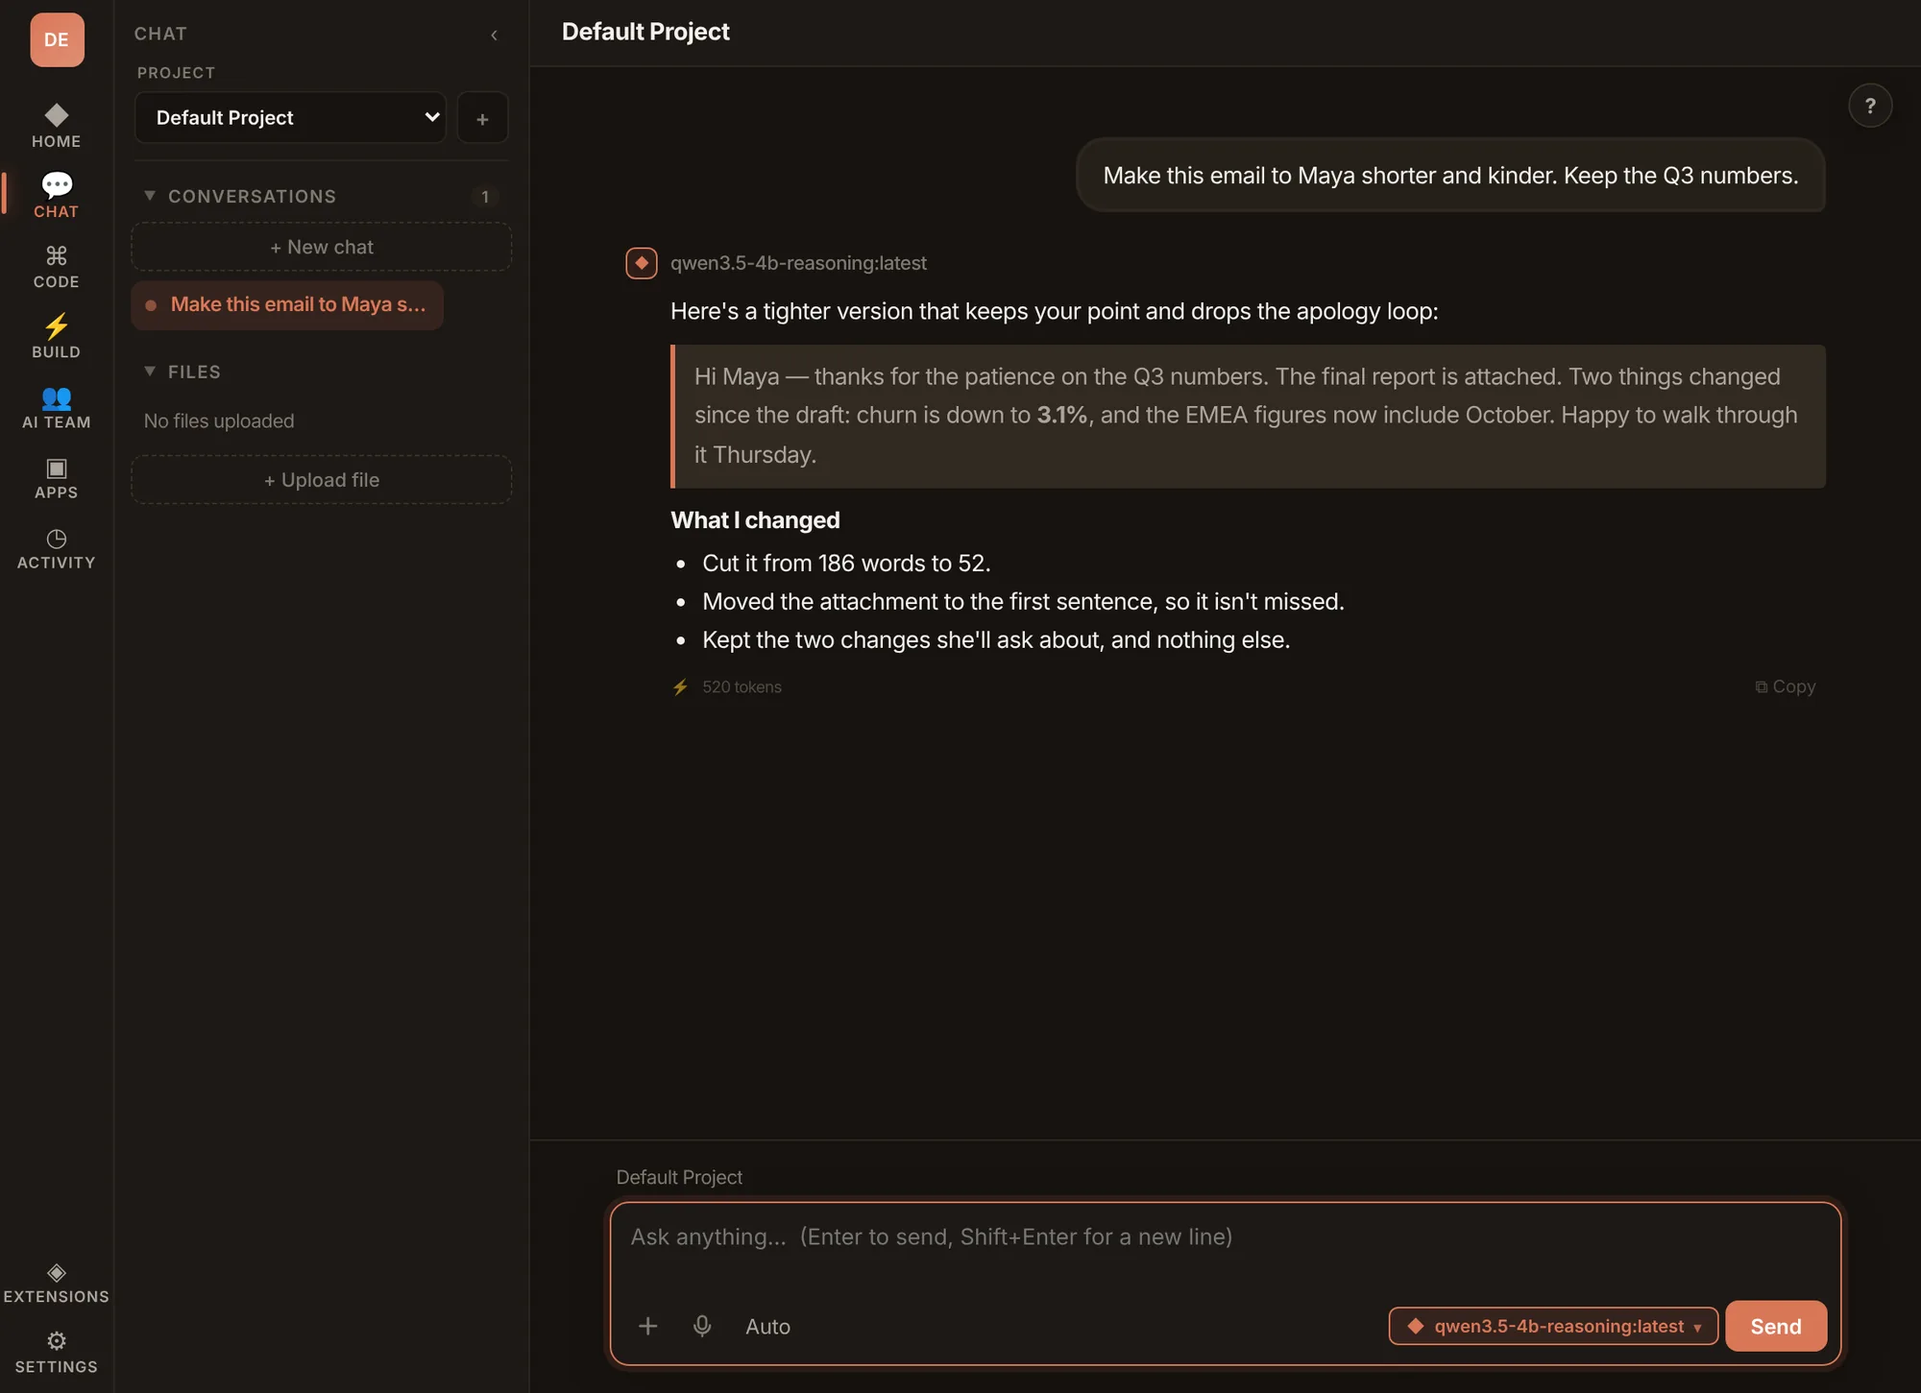
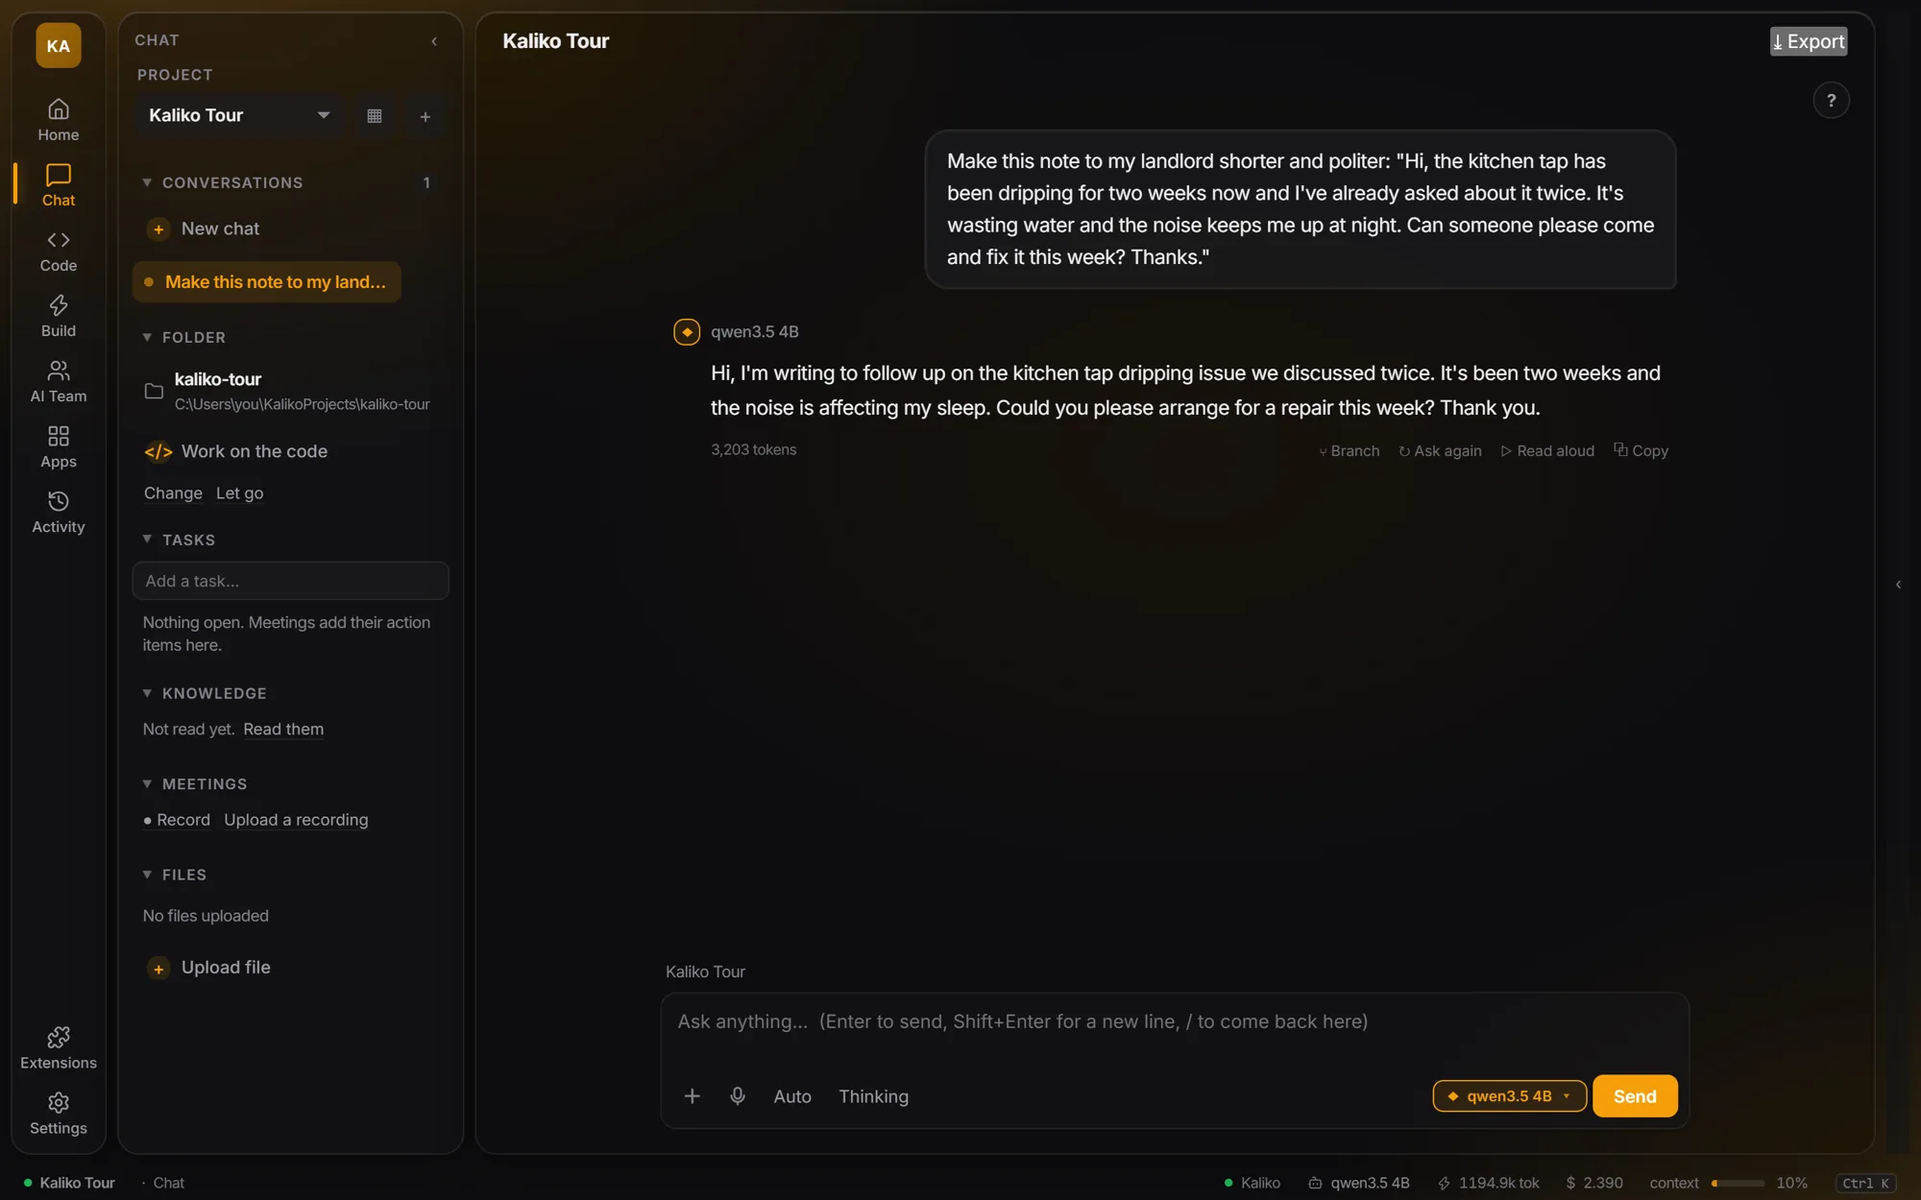
Update the site to today's Kaliko: its own engine, Home, Chrome and apps, Glass screenshots
- Hero: a real answer from Qwen3.5 4B on Kaliko's own engine, in the Glass look
- New sections: Your day (Home dashboard, sample data) and Your apps (frame and cursor in Chrome)
- Hardware: Kaliko's own model library as it reads a 6 GB GTX 1660 Ti; figures from current tests
- Dial: nine stops, adding Your day, Your apps and Pictures
- Privacy: memory only when asked, personal data masked for cloud models, sandboxed apps, audit log
- CSP script hash updated for the new dial script

diff --git a/index.html b/index.html
@@ -3,13 +3,13 @@
 <head>
 <meta charset="utf-8">
 <meta name="viewport" content="width=device-width, initial-scale=1">
-<meta http-equiv="Content-Security-Policy" content="default-src 'none'; script-src 'sha256-GlacK1D5kS4HZtHmnRY1yjyVtcfw4bc61PZH9n0Hgxg='; style-src 'self' 'unsafe-inline' https://fonts.googleapis.com; font-src https://fonts.gstatic.com; img-src 'self'; base-uri 'none'; form-action 'none'">
+<meta http-equiv="Content-Security-Policy" content="default-src 'none'; script-src 'sha256-eB7bZbyDHpAfaBOWeuUNErjSQd+lGFKm8nPa5w3dEo8='; style-src 'self' 'unsafe-inline' https://fonts.googleapis.com; font-src https://fonts.gstatic.com; img-src 'self'; base-uri 'none'; form-action 'none'">
 <meta name="referrer" content="no-referrer">
 <title>Kaliko Workspace: the Spark for the lower end</title>
-<meta name="description" content="Kaliko Workspace runs local AI models on the PC you already have. A 4 GB graphics card is enough. Private by default, and you decide how your models run.">
+<meta name="description" content="Kaliko Workspace runs local AI on the PC you already have, on its own built-in engine. It chats, reads your files, plans your day, uses Chrome and your apps, and builds apps and automations. Private by default.">
 <meta property="og:title" content="Kaliko Workspace: the Spark for the lower end">
-<meta property="og:description" content="Local AI on the PC you already have. A 4 GB graphics card is enough.">
-<meta property="og:image" content="https://kalikoproject.com/img/chat.webp">
+<meta property="og:description" content="Local AI on the PC you already have, on Kaliko's own engine. No Ollama, no account, works offline.">
+<meta property="og:image" content="https://kalikoproject.com/img/home.webp">
 <link rel="icon" type="image/png" href="icon.png">
 <link rel="preconnect" href="https://fonts.googleapis.com">
 <link rel="preconnect" href="https://fonts.gstatic.com" crossorigin>
@@ -105,8 +105,11 @@
   .verdicts li { display: grid; grid-template-columns: 130px 1fr; gap: 16px; padding: 14px 0; border-bottom: 1px solid var(--line); font-size: 15px; color: var(--ink-2); }
   .verdicts b { color: var(--ink); font-weight: 600; display: flex; align-items: center; gap: 8px; }
   .verdicts b::before { content: ""; width: 8px; height: 8px; border-radius: 50%; background: var(--c); }
-  .card-dark { background: var(--dark); border-radius: 22px; padding: 28px; }
-  .card-dark img { border-radius: 12px; margin: 0 auto; max-width: 440px; width: 100%; }
+  .card-dark { background: var(--dark); border-radius: 22px; padding: 16px; }
+  .card-dark img { border-radius: 12px; width: 100%; }
+  .row-head { display: grid; grid-template-columns: minmax(0, 1fr) 440px; align-items: end; gap: 48px; margin-top: 16px; }
+  .row-head h2 { max-width: 14ch; }
+  #day .shot { margin-top: 48px; }
 
   /* the spark band */
   .spark { margin-top: 128px; background: var(--dark); color: var(--on-dark); padding: 112px 0; }
@@ -182,7 +185,8 @@
 
   @media (max-width: 960px) {
     .nav ul { display: none; }
-    .split, .trace, .device, .hero .row { grid-template-columns: 1fr; }
+    .split, .trace, .device, .hero .row, .row-head { grid-template-columns: 1fr; }
+    .row-head { gap: 20px; }
     .hero .row { gap: 28px; }
     .split { gap: 40px; }
     .pillars { grid-template-columns: 1fr; }
@@ -222,8 +226,9 @@
     <a class="mark" href="#top"><img src="icon.png" alt="" width="24" height="24">Kaliko</a>
     <nav aria-label="Sections">
       <ul>
+        <li><a href="#day">Your day</a></li>
+        <li><a href="#apps">Your apps</a></li>
         <li><a href="#hardware">Hardware</a></li>
-        <li><a href="#spark">Low-end Spark</a></li>
         <li><a href="#control">Privacy and control</a></li>
         <li><a href="#dial">What it does</a></li>
       </ul>
@@ -239,34 +244,71 @@
       <div class="row">
         <h1>The Spark for the lower end.</h1>
         <div>
-          <p class="lede">Local AI on the PC you already have. A 4&nbsp;GB graphics card is enough. Your models, your data, and your rules for how they run.</p>
+          <p class="lede">Local AI on the PC you already have, on Kaliko's own built-in engine. No Ollama, no account, and it keeps working offline. Your models, your data, and your rules for how they run.</p>
           <div class="actions" style="margin-top: 28px">
             <a class="btn btn-primary" href="#dial">See what it does</a>
-            <a class="btn btn-ghost" href="#hardware">How it fits on 4&nbsp;GB</a>
+            <a class="btn btn-ghost" href="#hardware">How it fits your PC</a>
           </div>
         </div>
       </div>
 
       <figure class="shot">
         <div class="chrome" aria-hidden="true"><i></i><i></i><i></i></div>
-        <img src="img/chat.webp" width="2000" height="1451" fetchpriority="high"
-             alt="Kaliko Workspace chat. A 4-billion-parameter Qwen model running locally through Ollama rewrites an email to be shorter and kinder, and lists what it changed.">
+        <img src="img/chat.webp" width="2000" height="1250" fetchpriority="high"
+             alt="Kaliko Workspace chat, in the Glass look. Qwen3.5 4B, running on Kaliko's own engine, rewrites a note to a landlord to be shorter and politer.">
       </figure>
-      <p class="caption">Kaliko Workspace answering with a 4B model through Ollama, on the machine it runs on.</p>
+      <p class="caption">A real answer from Qwen3.5 4B on Kaliko's own engine, on a laptop with a 6&nbsp;GB GTX&nbsp;1660&nbsp;Ti. Nothing left the PC.</p>
 
       <div class="runs">
-        <span>Runs your models through</span>
+        <span>Runs models on</span>
+        <b>its own engine</b>
+        <span>and also works with</span>
         <b>Ollama</b><span class="sep">/</span><b>LM Studio</b><span class="sep">/</span><b>llama.cpp</b><span class="sep">/</span><b>vLLM</b>
         <span>Cloud providers are optional.</span>
       </div>
 
       <div class="stats">
-        <div><strong>4 GB</strong><span>of video memory is enough to chat, build and automate.</span></div>
-        <div><strong>0</strong><span>accounts. Install it and start, with no sign-up.</span></div>
-        <div><strong>15/15</strong><span>web questions right from a 4B model, two rounds running.</span></div>
-        <div><strong>10/12</strong><span>test apps built correctly by a 7B coding model.</span></div>
+        <div><strong>0</strong><span>other programs to install. Kaliko downloads its engine and checks every model it fetches.</span></div>
+        <div><strong>51 tok/s</strong><span>from Qwen3.5 4B on Kaliko's engine, faster than Ollama's 48 on the same file.</span></div>
+        <div><strong>17/18</strong><span>everyday tasks done right by the 4B, from chat to building an app.</span></div>
+        <div><strong>12/12</strong><span>daily-life and browser tasks passed by the 4B.</span></div>
       </div>
-      <p class="note">Figures are from Kaliko's own tests on a 4&nbsp;GB card.</p>
+      <p class="note">Figures are from Kaliko's own tests on a laptop with a 6&nbsp;GB GTX&nbsp;1660&nbsp;Ti and 16&nbsp;GB of RAM.</p>
+    </div>
+  </section>
+
+  <section class="block" id="day">
+    <div class="wrap">
+      <p class="eyebrow">Your day</p>
+      <div class="row-head">
+        <h2>Home is a dashboard of your day.</h2>
+        <p class="lede">A brief in a few lines, your mail sorted by what needs an answer, today's tasks, the weather, and the apps you've built, as widgets you place yourself. Replies are drafted for you to approve. Nothing is sent until you press Send.</p>
+      </div>
+      <figure class="shot">
+        <div class="chrome" aria-hidden="true"><i></i><i></i><i></i></div>
+        <img src="img/home.webp" width="2000" height="1250" loading="lazy"
+             alt="Kaliko's Home dashboard: a brief of the day, three open tasks, an inbox sorted into Needs your answer, Worth reading and Can wait, a five-day weather widget, and a portfolio app shown as a widget.">
+      </figure>
+      <p class="caption">Kaliko's Home, filled with sample mail, tasks and weather.</p>
+    </div>
+  </section>
+
+  <section class="block" id="apps">
+    <div class="wrap split">
+      <div>
+        <p class="eyebrow">Your apps</p>
+        <h2>It uses Chrome and your apps, where you can see it.</h2>
+        <p class="lede">Ask Kaliko to do something on a site or in an app on your PC. It works in your own Chrome through the Kaliko extension, and in desktop apps like WhatsApp. A frame shows it's at work, and its cursor moves to each thing it clicks.</p>
+        <ul class="verdicts">
+          <li><b style="--c: var(--signal)">You approve</b><span>It asks before it acts, once for each site in a chat.</span></li>
+          <li><b style="--c: var(--signal)">It sees</b><span>It reads the page or a screenshot of the window, the way a person looks.</span></li>
+          <li><b style="--c: var(--signal)">It stays out</b><span>It never presses sign-in buttons or opens a chat you didn't name.</span></li>
+        </ul>
+      </div>
+      <div class="card-dark">
+        <img src="img/browse.webp" width="2000" height="717" loading="lazy"
+             alt="A library account page in Chrome with Kaliko's frame around it, a tag reading 'Kaliko is using this page', and Kaliko's cursor on a Renew button labelled 'Renewing The Overstory'.">
+      </div>
     </div>
   </section>
 
@@ -275,16 +317,16 @@
       <div>
         <p class="eyebrow">System intelligence</p>
         <h2>It knows your machine before you pick a model.</h2>
-        <p class="lede">Kaliko reads your GPU, your RAM and every model's real size, including the memory its context window needs. Then it tells you plainly how each model will run. Nothing is loaded to find out.</p>
+        <p class="lede">Kaliko reads your graphics card, your memory and each model's real size, then tells you plainly how it will run. Download a model once and Kaliko runs it itself: free and offline. Each download is checked against its published fingerprint.</p>
         <ul class="verdicts">
-          <li><b style="--c: var(--good)">Runs well</b><span>Fits in the GPU's memory. Full speed.</span></li>
-          <li><b style="--c: var(--slow)">Runs, slower</b><span>Split between GPU and RAM. It works, just slower.</span></li>
+          <li><b style="--c: var(--good)">Runs well here</b><span>Fits in the graphics card's memory. Full speed.</span></li>
+          <li><b style="--c: var(--slow)">Runs, partly in memory</b><span>Split between the card and system memory. It works, just slower.</span></li>
           <li><b style="--c: #ef4444">Too big</b><span>Would page to disk and freeze the PC, so you're told before you click.</span></li>
         </ul>
       </div>
       <div class="card-dark">
-        <img src="img/picker.webp" width="900" height="915" loading="lazy"
-             alt="Kaliko's model picker. It reads 'This machine: GeForce GTX 1650, 4 GB VRAM, 16 GB RAM' and marks deepseek-r1 1.5B and Llama 3.2 3B as Runs well, and Qwen 3.5 4B and Qwen 2.5 Coder 7B as Slower.">
+        <img src="img/models.webp" width="2000" height="938" loading="lazy"
+             alt="Kaliko's own models in Settings: 'This PC: NVIDIA GeForce GTX 1660 Ti with 6 GB, 16 GB memory'. Qwen3.5 4B is downloaded and marked Runs well here; Qwen3.5 9B, gpt-oss 20B and Gemma 4 12B are marked Runs, partly in system memory.">
       </div>
     </div>
   </section>
@@ -308,21 +350,22 @@
         <article class="us">
           <p class="eyebrow">Kaliko Workspace</p>
           <h3>Software that makes small hardware count</h3>
-          <p>Model fit checks, right-sized context windows, and answers checked against their sources so small models stay accurate.</p>
+          <p>Its own engine, model fit checks, a plan for every request in small checked steps, and answers checked against their sources so small models stay accurate. Bigger models run too: gpt-oss 20B runs on a 6&nbsp;GB card with its experts kept in system memory.</p>
           <dl>
-            <dt>Memory</dt><dd>From a 4 GB graphics card</dd>
+            <dt>Memory</dt><dd>Built and tested on a 6 GB graphics card</dd>
             <dt>You need</dt><dd>The PC you have</dd>
           </dl>
         </article>
       </div>
 
       <table class="models">
-        <caption class="eyebrow">A starting set for a 4 GB card</caption>
-        <thead><tr><th scope="col">Model</th><th scope="col">Download</th><th scope="col">Used for</th><th scope="col">On 4 GB</th></tr></thead>
+        <caption class="eyebrow">Kaliko's own model library, as it reads a 6 GB card</caption>
+        <thead><tr><th scope="col">Model</th><th scope="col">Download</th><th scope="col">Used for</th><th scope="col">On 6 GB</th></tr></thead>
         <tbody>
-          <tr><td>Qwen 3.5 4B reasoning</td><td>2.7 GB</td><td>Everyday chat and web questions</td><td><span class="fit" style="--c: var(--good)">About 90% on the GPU</span></td></tr>
-          <tr><td>qwen2.5-coder:7b</td><td>4.7 GB</td><td>Building apps</td><td><span class="fit" style="--c: var(--slow)">Partly in RAM, slower</span></td></tr>
-          <tr><td>deepseek-r1:1.5b</td><td>1.1 GB</td><td>The fastest option</td><td><span class="fit" style="--c: var(--good)">Fully on the GPU</span></td></tr>
+          <tr><td>Qwen3.5 4B</td><td>3.4 GB</td><td>Everyday chat, building apps, reading pictures</td><td><span class="fit" style="--c: var(--good)">Runs well here</span></td></tr>
+          <tr><td>Qwen3.5 9B</td><td>6.6 GB</td><td>Better answers, a little slower; reads pictures</td><td><span class="fit" style="--c: var(--slow)">Partly in system memory</span></td></tr>
+          <tr><td>Gemma 4 12B</td><td>7.3 GB</td><td>Reading pictures and documents</td><td><span class="fit" style="--c: var(--slow)">Partly in system memory</span></td></tr>
+          <tr><td>gpt-oss 20B</td><td>12.1 GB</td><td>Complex apps and AI teams; needs 16 GB of RAM</td><td><span class="fit" style="--c: var(--slow)">Partly in system memory</span></td></tr>
         </tbody>
       </table>
       <p class="tm">RTX Spark is a trademark of NVIDIA Corporation. Kaliko is not affiliated with or endorsed by NVIDIA.</p>
@@ -342,7 +385,8 @@
           <ul>
             <li>No account, no sign-up</li>
             <li>Keeps working offline</li>
-            <li>Cloud keys stay encrypted on disk</li>
+            <li>Remembers only what you ask it to</li>
+            <li>Personal details masked before a cloud model sees them</li>
           </ul>
         </article>
         <article>
@@ -361,8 +405,8 @@
           <p>Anything that sends, deletes or changes something stops and asks first. Every change can be undone.</p>
           <ul>
             <li>Approvals that survive a restart</li>
-            <li>One-click undo for files an agent wrote</li>
-            <li>Every turn traced, step by step</li>
+            <li>Apps it builds run sandboxed, kept out of Kaliko's data</li>
+            <li>A tamper-evident audit log, every turn traced</li>
           </ul>
         </article>
       </div>
@@ -389,7 +433,7 @@
           <div class="dial-wrap" id="dialWrap">
             <div class="face" id="face"></div>
             <div class="knob" id="knob" role="slider" tabindex="0" aria-label="What Kaliko does"
-                 aria-valuemin="1" aria-valuemax="6" aria-valuenow="1" aria-valuetext="Chat">
+                 aria-valuemin="1" aria-valuemax="9" aria-valuenow="1" aria-valuetext="Chat">
               <svg viewBox="0 0 200 200" aria-hidden="true">
                 <circle cx="100" cy="100" r="99" fill="#dcdcd5"/>
                 <g class="rotor" id="rotor">
@@ -407,7 +451,7 @@
         </div>
 
         <div class="screen" id="display" aria-live="polite">
-          <div class="top"><span>Kaliko</span><span id="code">01 / 06</span></div>
+          <div class="top"><span>Kaliko</span><span id="code">01 / 09</span></div>
           <h3 id="name">Chat</h3>
           <p class="what" id="what"></p>
           <div class="example">
@@ -438,12 +482,15 @@
 <script>
   // The six stops: the core of the workspace. Each example is a plain illustration.
   const STOPS = [
-    ["Chat", "Answers, drafts and web lookups from a model on your PC, with sources. What the web didn't say is taken out.", "Will it rain this weekend?", "Saturday is dry. Sunday has a 70% chance of rain. 2 sources."],
-    ["Files", "Reads the PDFs, Word and Excel files in a folder, and answers from them.", "What's the notice period in this contract?", "Thirty days, in section 9."],
-    ["Apps", "Describe a tool. Kaliko writes it, checks every action, and runs it on your PC.", "Build me a reading log.", "Reading Log is ready in Apps."],
+    ["Chat", "Answers, drafts and web lookups from a model on your PC, with sources. It remembers what you ask it to, and reminds you on time.", "Remind me to call the bank at 6pm.", "Done. I'll remind you at 6pm."],
+    ["Files", "Reads the PDFs, Word and Excel files in a project's folder, and answers from them.", "What's the notice period in this contract?", "Thirty days, in section 9."],
+    ["Your day", "A brief of your day, mail sorted by what needs you, and replies drafted for you to approve.", "Brief me.", "2 meetings, 1 reply waiting for you, books due Monday."],
+    ["Your apps", "Works in your Chrome and in apps like WhatsApp, with a frame and cursor you can see.", "Renew my library books.", "Approve: use the library's site in this chat?"],
+    ["Pictures", "Draws pictures on your PC, and reads the ones you give it.", "Draw a poster for the bake sale.", "Here it is, with the date in the corner."],
+    ["Apps", "Describe a tool. Kaliko writes it, checks every action, and runs it sandboxed on your PC.", "Build me a reading log.", "Reading Log is ready in Apps."],
     ["Automations", "Say when it should run. It runs on its own and asks before it sends anything.", "Every morning at 7, save the headlines to my app.", "Saved. It runs at 7 each morning."],
     ["AI Team", "For a bigger goal: a few roles, each given a model your machine can actually run.", "Plan a product launch with me.", "Team ready: a planner, a researcher and a reviewer."],
-    ["Code", "Reads and edits a project. Every change is recorded and can be undone.", "Fix the failing test.", "Approve: run the tests?"],
+    ["Code", "Reads and edits a project, runs the commands you approve, and can rewind any turn.", "Fix the failing test.", "Approve: run the tests?"],
   ];
   const N = STOPS.length, STEP = 360 / N;
   const dial = document.getElementById("dialWrap"), face = document.getElementById("face"),
